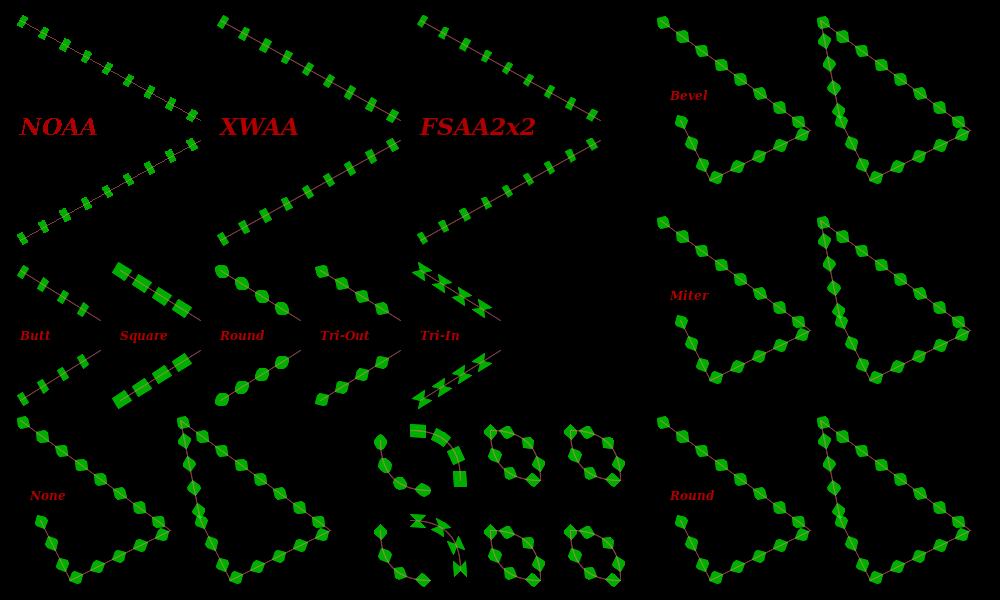
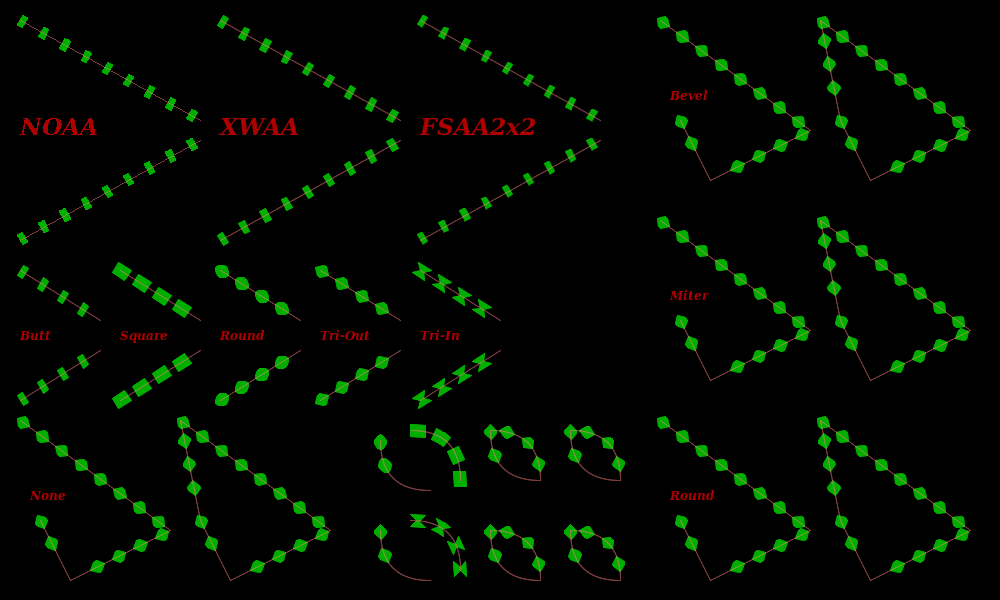
Working on patterned thick polygon

diff --git a/src/Pt-Gfx/ImagePainter2.cpp b/src/Pt-Gfx/ImagePainter2.cpp
@@ -165,8 +165,6 @@ static inline bool satProcess(const PointF* poly1, size_t poly1Count, const Poin
 
 static inline bool satDetectIntersection(const PointF* poly1, size_t poly1Count, const PointF* poly2, size_t poly2Count)
 {
-    return false;
-    
     const bool i1 = satProcess(poly1, poly1Count, poly2, poly2Count);
     const bool i2 = satProcess(poly2, poly2Count, poly1, poly1Count);
 
@@ -254,6 +252,12 @@ function naive(polygon1, polygon2) {
     return null;
 }
 */
+
+static inline bool polyDetectIntersection(const PointF* poly1, size_t poly1Count, const PointF* poly2, size_t poly2Count)
+{
+    return satDetectIntersection(poly1, poly1Count, poly2, poly2Count);
+}
+
 
 // ======================================================================================
 // ===== Internal Helper Functions - Drawing Functions ==================================
@@ -1540,7 +1544,7 @@ struct ImagePainter2::SAGOpState {
     float                gatherLen;  // Length of the gathered points
 
     inline SAGOpState(std::vector<PointF>& pointsF, const PointF* src, size_t pointCount, size_t penSize)
-    : dstPoints(pointsF), dstPStart(0), dstPCount(0), srcPoints(src), srcCount(pointCount), cellSize(penSize * 0.25f), idx1(0), remLen(-1.0f), gatherLen(0.0f)
+    : dstPoints(pointsF), dstPStart(0), dstPCount(0), dstPCount0(0), srcPoints(src), srcCount(pointCount), cellSize(penSize * 0.25f), idx1(0), remLen(-1.0f), gatherLen(0.0f)
     {}
 };
 
@@ -1697,15 +1701,29 @@ bool ImagePainter2::sagPolygonPoints(SAGOpState& state, bool draw)
                 thickenSolidOpenPolygon(dstPoints, state.gather.data(), state.gather.size(), 0);
                 //lprintf("    Poly Draw : patSegLen = %5.1f ; remLen = %5.1f ; point count = %zd\n", state.patSegLen, state.remLen, state.gather.size());
 
-                // Check for intersection with the previous polygon in the final destination buffer
-                if(state.dstPCount) {
-                    // ### TODO ###
+                // Check for intersection with the first polygons in the final destination buffer
+                bool intersect = false;
+                if(state.dstPCount0) {
+                    intersect = polyDetectIntersection(&state.dstPoints[0], state.dstPCount0, dstPoints.data(), dstPoints.size());
                 }
-
-                // Add polygon separator point as needed
-                if(!state.dstPoints.empty()) state.dstPoints.push_back(Painter::PolygonSeparatorPointF);
-                // Copy the points
-                state.dstPoints.insert(state.dstPoints.end(), dstPoints.begin(), dstPoints.end());
+                else {
+                    state.dstPCount0 = dstPoints.size();
+                }
+                // Check for intersection with the previous polygons in the final destination buffer
+                if(!intersect && state.dstPCount && state.dstPStart) {
+                    intersect = polyDetectIntersection(&state.dstPoints[state.dstPStart], state.dstPCount,  dstPoints.data(), dstPoints.size());
+                }
+                if(!intersect) {
+                    state.dstPStart = state.dstPoints.size();
+                    state.dstPCount = dstPoints.size();
+                }
+                // Discard the new polygon if there is any intersection
+                if(!intersect) {
+                    // Add polygon separator point as needed
+                    if(!state.dstPoints.empty()) state.dstPoints.push_back(Painter::PolygonSeparatorPointF);
+                    // Copy the points
+                    state.dstPoints.insert(state.dstPoints.end(), dstPoints.begin(), dstPoints.end());
+                }
             }
             //else {
             //    lprintf("    Poly Skip : patSegLen = %5.1f ; remLen = %5.1f ; point count = %zd\n", state.patSegLen, state.remLen, state.gather.size());
@@ -1816,7 +1834,7 @@ void ImagePainter2::sagGenerateSimpleLineSegment(SAGOpState& state, float x1, fl
 
     // Check for intersection with the first polygons in the final destination buffer
     if(state.dstPCount0) {
-       // if( satDetect(&state.dstPoints[0], state.dstPCount0, dstPoints.data(), dstPoints.size()) ) return;
+        if( polyDetectIntersection(&state.dstPoints[0], state.dstPCount0, dstPoints.data(), dstPoints.size()) ) return;
     }
     else {
         state.dstPCount0 = dstPoints.size();
@@ -1824,7 +1842,7 @@ void ImagePainter2::sagGenerateSimpleLineSegment(SAGOpState& state, float x1, fl
 
     // Check for intersection with the previous polygons in the final destination buffer
     if(state.dstPCount && state.dstPStart) {
-        if( satDetectIntersection(&state.dstPoints[state.dstPStart], state.dstPCount,  dstPoints.data(), dstPoints.size()) ) return;
+        if( polyDetectIntersection(&state.dstPoints[state.dstPStart], state.dstPCount,  dstPoints.data(), dstPoints.size()) ) return;
     }
     state.dstPStart = state.dstPoints.size();
     state.dstPCount = dstPoints.size();
